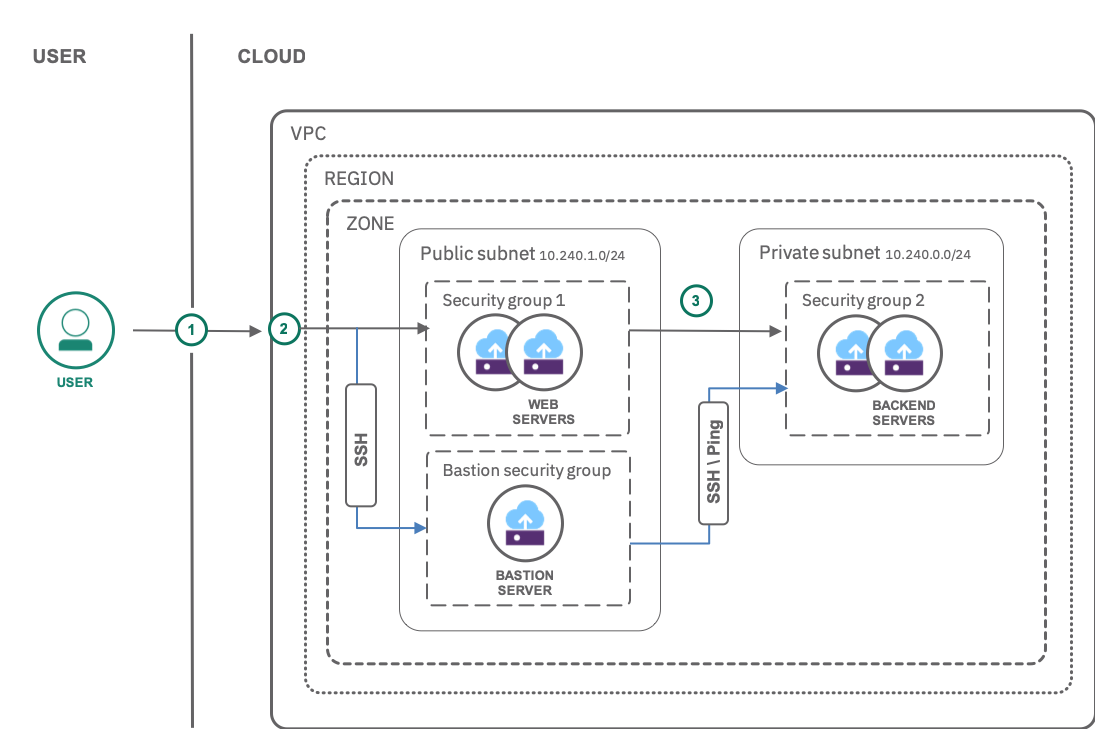
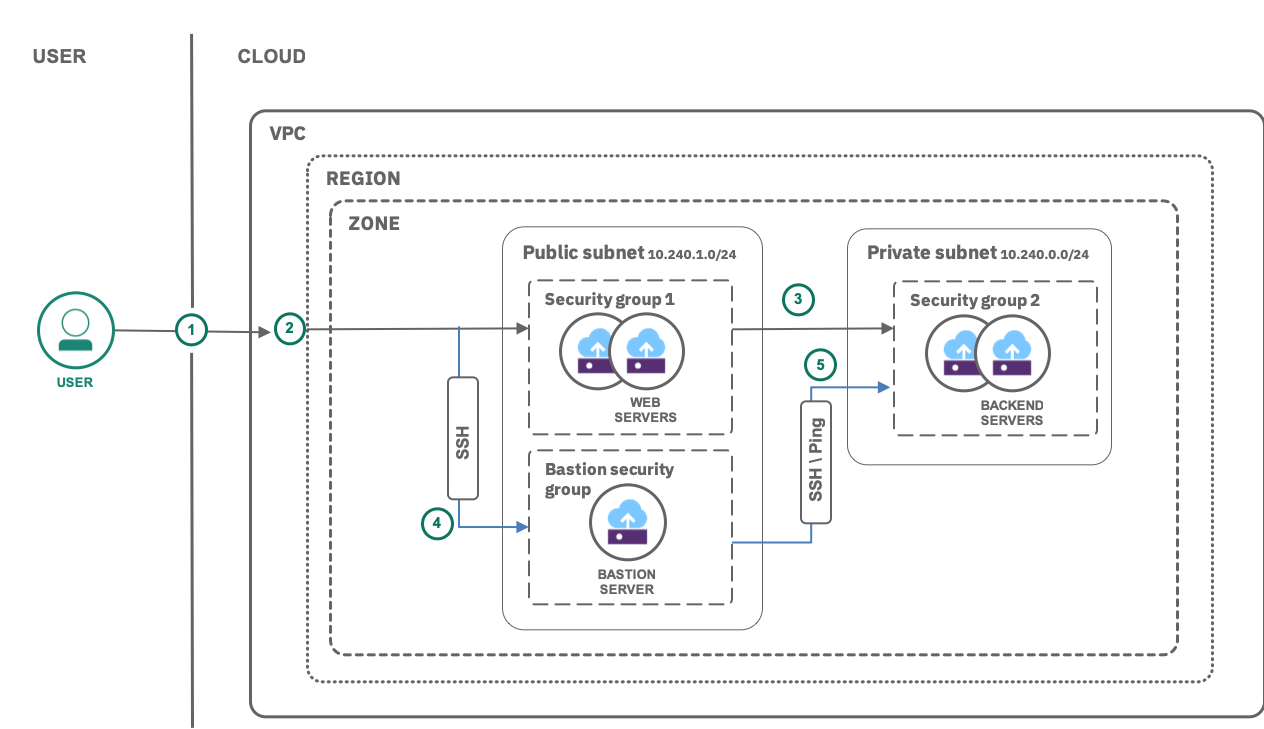
sol 40: Updated architecture diagram and steps based on review comments

diff --git a/vpc-public-app-private-backend.md b/vpc-public-app-private-backend.md
@@ -56,12 +56,11 @@ This tutorial may incur costs. Use the [Pricing Calculator](https://{DomainName}
 
 ![Architecture](images/solution40-vpc-public-app-private-backend/Architecture.png)
 
-1. The user accesses the frontend within a VPC.  
-2. Creates a frontend (public) subnet and a backend (private) subnet.  
-3. Creates respective virtual server instances (VSIs).    
-4. Creates and configures individual security groups(SGs) to limit the VSIs inbound and outbound traffic.  
-5. Reserves and associates a floating IP address to enable your instance to communicate with the internet. 
-6. Creates a bastion instance and security group to securely access the private instance.
+1. User connects to the cloud and provisions a VPC service with a frontend (public) and a backend (private) subnet under a specific region and a zone. 
+2. Creates virtual server instances (VSIs) and security groups in respective subnets. 
+3. Configures individual security groups(SGs) to limit the attached VSI's inbound and outbound traffic. One such rule is that the backend server receives requests only from the frontend security group.
+4. The user connects(SSH) to the frontend server through the bastion instance to install or update the server. 
+5. The user securely connects to the backend server in the private subnet through the bastion instance.
 
 ## Before you begin
 
